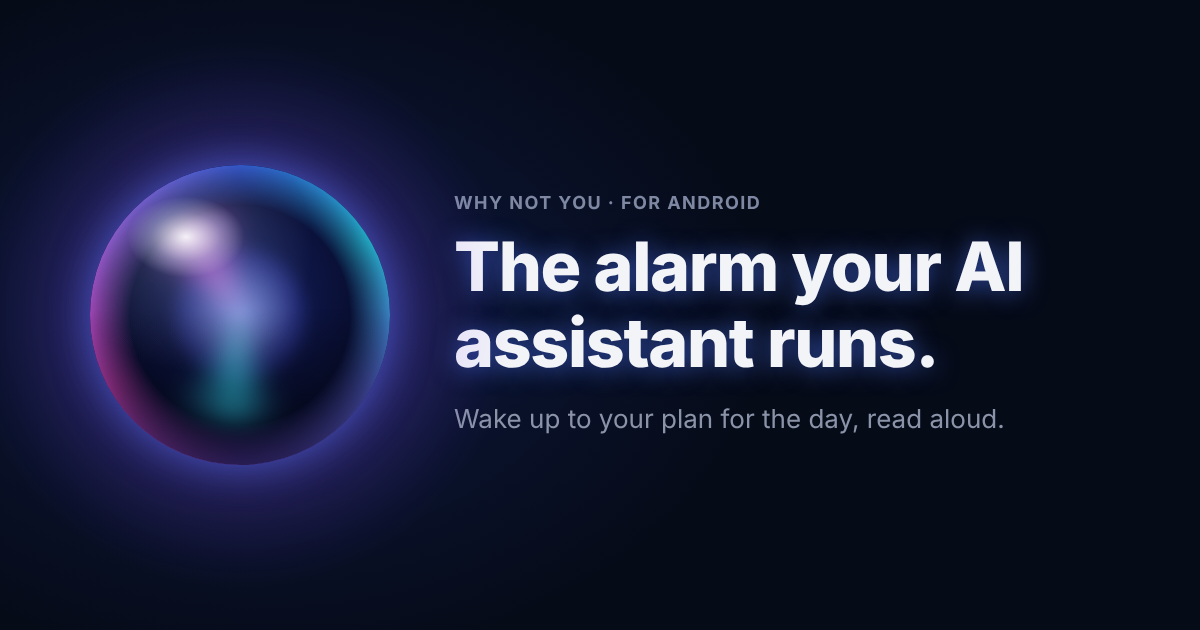
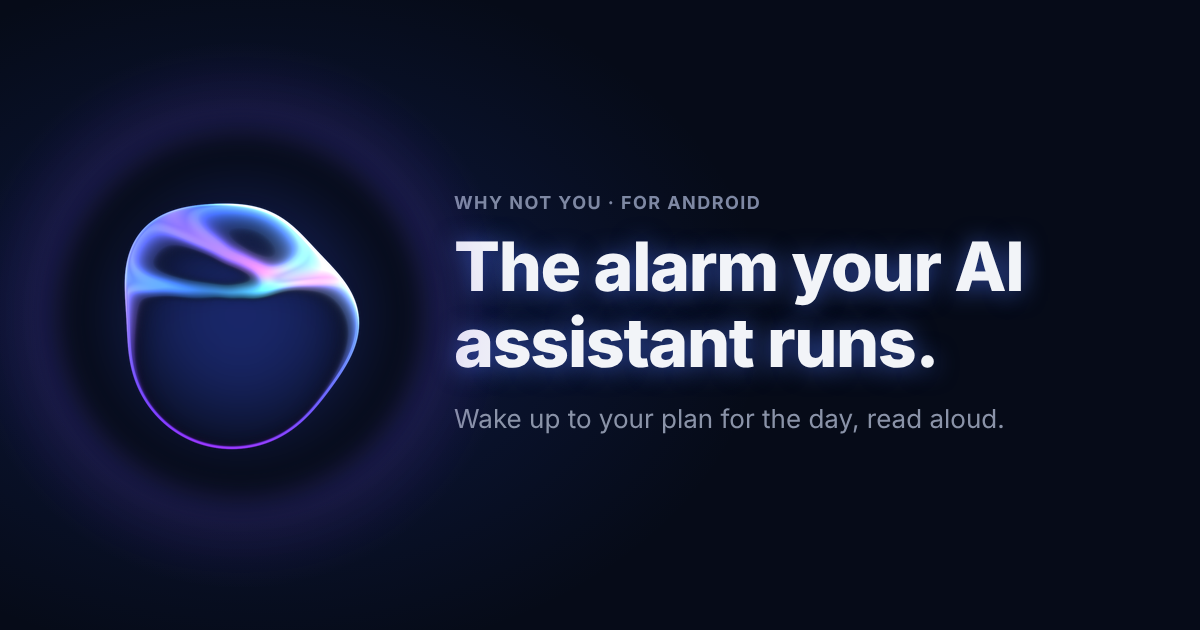
Website: use the real orb
Claude-Session: https://claude.ai/code/session_01DXvk7QxGbdtrWmEVqhQDjt

Changed region(s): [[0.0308, 0.181, 0.37, 0.8143]]

diff --git a/website/styles.css b/website/styles.css
@@ -163,11 +163,9 @@ p { margin: 0 0 1em; }
 }
 .brand:hover { color: var(--text); }
 .brand-orb {
-  width: 26px; height: 26px; border-radius: 50%;
-  background:
-    radial-gradient(circle at 32% 28%, rgba(255,255,255,.9) 0 8%, transparent 26%),
-    conic-gradient(from 200deg, #3b6bff, #2ee6ff, #8a5cff, #ff4fd8, #3b6bff);
-  box-shadow: 0 0 14px rgba(110, 130, 255, .7);
+  width: 28px; height: 28px;
+  background: url("/orb.webp") center / contain no-repeat;
+  filter: drop-shadow(0 0 8px rgba(110, 130, 255, .6));
   flex: none;
 }
 .nav > nav { margin-left: auto; }
@@ -233,56 +231,15 @@ main { display: block; }
 .orb {
   position: absolute;
   inset: 0;
-  border-radius: 50%;
-  overflow: hidden;
-  isolation: isolate;
-  background: radial-gradient(circle at 50% 42%, #142060 0%, #0A1036 45%, #050818 78%);
-  box-shadow:
-    0 0 40px rgba(90, 120, 255, .55),
-    0 0 110px rgba(130, 90, 255, .28);
-  animation: breathe 6s ease-in-out infinite;
+  background: url("/orb.webp") center / contain no-repeat;
+  animation: breathe 7s ease-in-out infinite;
 }
-.orb span { position: absolute; border-radius: 50%; }
-/* outer iridescent rim */
-.orb .rim {
-  inset: -6%;
-  background: conic-gradient(from 0deg, #3b6bff, #2ee6ff, #6f7bff, #8a5cff, #ff4fd8, #b36bff, #3b6bff);
-  -webkit-mask: radial-gradient(circle, transparent 46%, #000 66%);
-  mask: radial-gradient(circle, transparent 46%, #000 66%);
-  filter: blur(6px);
-  opacity: .85;
-  animation: spin 16s linear infinite;
-}
-/* inner drifting ribbons of light */
-.orb .ribbons {
-  inset: 14%;
-  background:
-    conic-gradient(from 90deg, transparent 0 18%, rgba(46, 230, 255, .75) 26%, transparent 36% 58%, rgba(255, 79, 216, .6) 66%, transparent 76% 100%);
-  filter: blur(12px);
-  mix-blend-mode: screen;
-  animation: spin 11s linear infinite reverse;
-}
-.orb .core {
-  inset: 26%;
-  background: radial-gradient(circle, rgba(150, 170, 255, .75), rgba(90, 92, 255, .25) 55%, transparent 72%);
-  filter: blur(6px);
-  mix-blend-mode: screen;
-  animation: pulse 3.2s ease-in-out infinite;
-}
-/* glassy sheen top-left, darker lower half */
-.orb .glass {
-  inset: 0;
-  z-index: 2;
-  background:
-    radial-gradient(ellipse 26% 18% at 32% 24%, rgba(255, 255, 255, .92), rgba(220, 230, 255, .35) 45%, transparent 75%),
-    radial-gradient(circle at 34% 28%, rgba(200, 215, 255, .22), transparent 42%),
-    linear-gradient(180deg, transparent 48%, rgba(2, 4, 14, .62) 100%);
-}
+.orb span { display: none; }
 
 @keyframes spin { to { transform: rotate(360deg); } }
 @keyframes breathe {
-  0%, 100% { transform: scale(.96); box-shadow: 0 0 36px rgba(90,120,255,.45), 0 0 90px rgba(130,90,255,.22); }
-  50% { transform: scale(1.03); box-shadow: 0 0 56px rgba(90,120,255,.7), 0 0 140px rgba(130,90,255,.36); }
+  0%, 100% { transform: scale(.97) rotate(0deg); }
+  50% { transform: scale(1.04) rotate(3deg); }
 }
 @keyframes halo { 0%, 100% { opacity: .7; transform: scale(.94); } 50% { opacity: 1; transform: scale(1.04); } }
 @keyframes pulse { 0%, 100% { opacity: .55; transform: scale(.9); } 50% { opacity: 1; transform: scale(1.1); } }

diff --git a/website/404.html b/website/404.html
@@ -17,7 +17,8 @@
 <meta property="og:image:height" content="630">
 <meta property="og:image:alt" content="Why Not You: the alarm your AI assistant runs. A glowing blue orb on a dark navy background.">
 <meta name="twitter:card" content="summary_large_image">
-<link rel="icon" href="/favicon.svg" type="image/svg+xml">
+<link rel="icon" href="/favicon.png" type="image/png">
+<link rel="apple-touch-icon" href="/apple-touch-icon.png">
 <link rel="preconnect" href="https://fonts.googleapis.com">
 <link rel="preconnect" href="https://fonts.gstatic.com" crossorigin>
 <link rel="stylesheet" href="https://fonts.googleapis.com/css2?family=Inter:wght@400;500;600;700;800&amp;display=swap">

diff --git a/website/compare/alarmy.html b/website/compare/alarmy.html
@@ -17,7 +17,8 @@
 <meta property="og:image:height" content="630">
 <meta property="og:image:alt" content="Why Not You: the alarm your AI assistant runs. A glowing blue orb on a dark navy background.">
 <meta name="twitter:card" content="summary_large_image">
-<link rel="icon" href="/favicon.svg" type="image/svg+xml">
+<link rel="icon" href="/favicon.png" type="image/png">
+<link rel="apple-touch-icon" href="/apple-touch-icon.png">
 <link rel="preconnect" href="https://fonts.googleapis.com">
 <link rel="preconnect" href="https://fonts.gstatic.com" crossorigin>
 <link rel="stylesheet" href="https://fonts.googleapis.com/css2?family=Inter:wght@400;500;600;700;800&amp;display=swap">

diff --git a/website/compare/index.html b/website/compare/index.html
@@ -17,7 +17,8 @@
 <meta property="og:image:height" content="630">
 <meta property="og:image:alt" content="Why Not You: the alarm your AI assistant runs. A glowing blue orb on a dark navy background.">
 <meta name="twitter:card" content="summary_large_image">
-<link rel="icon" href="/favicon.svg" type="image/svg+xml">
+<link rel="icon" href="/favicon.png" type="image/png">
+<link rel="apple-touch-icon" href="/apple-touch-icon.png">
 <link rel="preconnect" href="https://fonts.googleapis.com">
 <link rel="preconnect" href="https://fonts.gstatic.com" crossorigin>
 <link rel="stylesheet" href="https://fonts.googleapis.com/css2?family=Inter:wght@400;500;600;700;800&amp;display=swap">

diff --git a/website/compare/one-sec.html b/website/compare/one-sec.html
@@ -17,7 +17,8 @@
 <meta property="og:image:height" content="630">
 <meta property="og:image:alt" content="Why Not You: the alarm your AI assistant runs. A glowing blue orb on a dark navy background.">
 <meta name="twitter:card" content="summary_large_image">
-<link rel="icon" href="/favicon.svg" type="image/svg+xml">
+<link rel="icon" href="/favicon.png" type="image/png">
+<link rel="apple-touch-icon" href="/apple-touch-icon.png">
 <link rel="preconnect" href="https://fonts.googleapis.com">
 <link rel="preconnect" href="https://fonts.gstatic.com" crossorigin>
 <link rel="stylesheet" href="https://fonts.googleapis.com/css2?family=Inter:wght@400;500;600;700;800&amp;display=swap">

diff --git a/website/compare/opal.html b/website/compare/opal.html
@@ -17,7 +17,8 @@
 <meta property="og:image:height" content="630">
 <meta property="og:image:alt" content="Why Not You: the alarm your AI assistant runs. A glowing blue orb on a dark navy background.">
 <meta name="twitter:card" content="summary_large_image">
-<link rel="icon" href="/favicon.svg" type="image/svg+xml">
+<link rel="icon" href="/favicon.png" type="image/png">
+<link rel="apple-touch-icon" href="/apple-touch-icon.png">
 <link rel="preconnect" href="https://fonts.googleapis.com">
 <link rel="preconnect" href="https://fonts.gstatic.com" crossorigin>
 <link rel="stylesheet" href="https://fonts.googleapis.com/css2?family=Inter:wght@400;500;600;700;800&amp;display=swap">

diff --git a/website/compare/sleep-as-android.html b/website/compare/sleep-as-android.html
@@ -17,7 +17,8 @@
 <meta property="og:image:height" content="630">
 <meta property="og:image:alt" content="Why Not You: the alarm your AI assistant runs. A glowing blue orb on a dark navy background.">
 <meta name="twitter:card" content="summary_large_image">
-<link rel="icon" href="/favicon.svg" type="image/svg+xml">
+<link rel="icon" href="/favicon.png" type="image/png">
+<link rel="apple-touch-icon" href="/apple-touch-icon.png">
 <link rel="preconnect" href="https://fonts.googleapis.com">
 <link rel="preconnect" href="https://fonts.gstatic.com" crossorigin>
 <link rel="stylesheet" href="https://fonts.googleapis.com/css2?family=Inter:wght@400;500;600;700;800&amp;display=swap">

diff --git a/website/index.html b/website/index.html
@@ -17,7 +17,8 @@
 <meta property="og:image:height" content="630">
 <meta property="og:image:alt" content="Why Not You: the alarm your AI assistant runs. A glowing blue orb on a dark navy background.">
 <meta name="twitter:card" content="summary_large_image">
-<link rel="icon" href="/favicon.svg" type="image/svg+xml">
+<link rel="icon" href="/favicon.png" type="image/png">
+<link rel="apple-touch-icon" href="/apple-touch-icon.png">
 <link rel="preconnect" href="https://fonts.googleapis.com">
 <link rel="preconnect" href="https://fonts.gstatic.com" crossorigin>
 <link rel="stylesheet" href="https://fonts.googleapis.com/css2?family=Inter:wght@400;500;600;700;800&amp;display=swap">

diff --git a/website/pricing.html b/website/pricing.html
@@ -17,7 +17,8 @@
 <meta property="og:image:height" content="630">
 <meta property="og:image:alt" content="Why Not You: the alarm your AI assistant runs. A glowing blue orb on a dark navy background.">
 <meta name="twitter:card" content="summary_large_image">
-<link rel="icon" href="/favicon.svg" type="image/svg+xml">
+<link rel="icon" href="/favicon.png" type="image/png">
+<link rel="apple-touch-icon" href="/apple-touch-icon.png">
 <link rel="preconnect" href="https://fonts.googleapis.com">
 <link rel="preconnect" href="https://fonts.gstatic.com" crossorigin>
 <link rel="stylesheet" href="https://fonts.googleapis.com/css2?family=Inter:wght@400;500;600;700;800&amp;display=swap">

diff --git a/website/privacy.html b/website/privacy.html
@@ -17,7 +17,8 @@
 <meta property="og:image:height" content="630">
 <meta property="og:image:alt" content="Why Not You: the alarm your AI assistant runs. A glowing blue orb on a dark navy background.">
 <meta name="twitter:card" content="summary_large_image">
-<link rel="icon" href="/favicon.svg" type="image/svg+xml">
+<link rel="icon" href="/favicon.png" type="image/png">
+<link rel="apple-touch-icon" href="/apple-touch-icon.png">
 <link rel="preconnect" href="https://fonts.googleapis.com">
 <link rel="preconnect" href="https://fonts.gstatic.com" crossorigin>
 <link rel="stylesheet" href="https://fonts.googleapis.com/css2?family=Inter:wght@400;500;600;700;800&amp;display=swap">

diff --git a/website/terms.html b/website/terms.html
@@ -17,7 +17,8 @@
 <meta property="og:image:height" content="630">
 <meta property="og:image:alt" content="Why Not You: the alarm your AI assistant runs. A glowing blue orb on a dark navy background.">
 <meta name="twitter:card" content="summary_large_image">
-<link rel="icon" href="/favicon.svg" type="image/svg+xml">
+<link rel="icon" href="/favicon.png" type="image/png">
+<link rel="apple-touch-icon" href="/apple-touch-icon.png">
 <link rel="preconnect" href="https://fonts.googleapis.com">
 <link rel="preconnect" href="https://fonts.gstatic.com" crossorigin>
 <link rel="stylesheet" href="https://fonts.googleapis.com/css2?family=Inter:wght@400;500;600;700;800&amp;display=swap">
